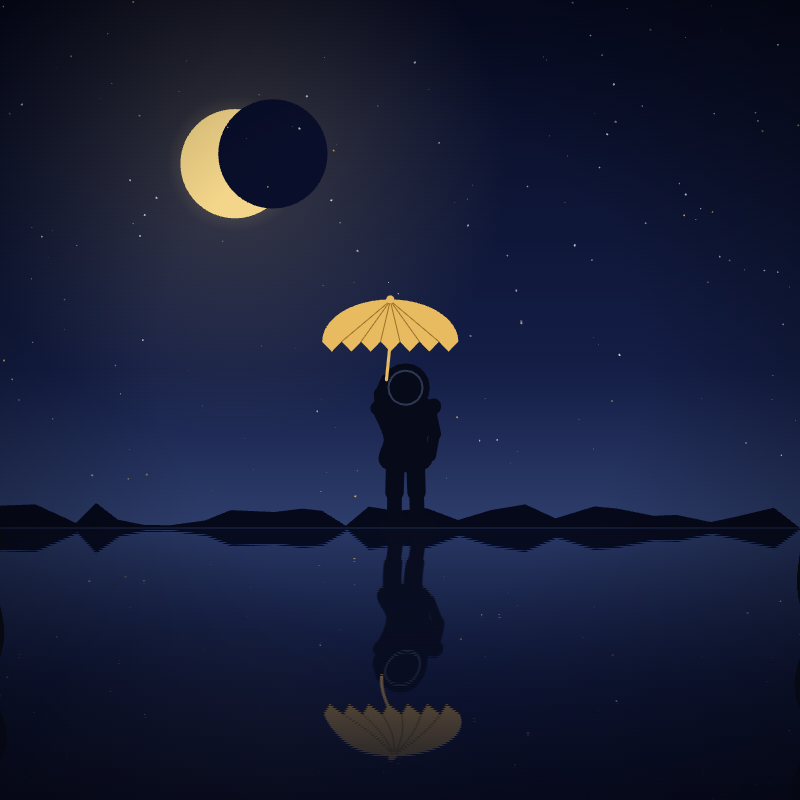
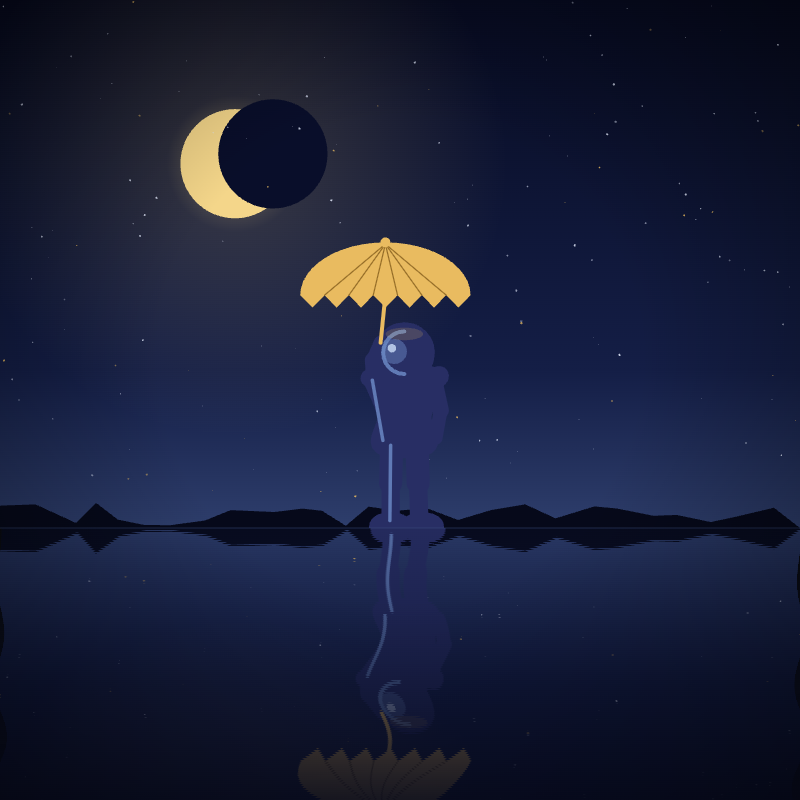
feat: render Sob a Lua figure in luminous blue-black skin
Render the figure in glowing indigo skin with a moonlight rim — the
signature gesture of contemporary Afro-Brazilian night painting — making
the afro-brasilidade reading legible rather than implied. Updates the
description and refreshes the thumbnail.

Changed region(s): [[0.375, 0.2812, 0.5938, 1.0]]

diff --git a/sketches/sob-a-lua/sketch.js b/sketches/sob-a-lua/sketch.js
@@ -1,10 +1,11 @@
 /**
  * Sob a Lua
  *
- * A study in afro-brasilidade after contemporary painters of the Black night:
- * a lone figure stands with a parasol beneath a gold crescent moon, on the edge
- * of still water that holds the sky. Indigo, gold and quiet. Each load is a new
- * night.
+ * A study in afro-brasilidade after the contemporary painters of the Black
+ * night: a figure with luminous blue-black skin stands with a parasol beneath a
+ * gold crescent moon, on the edge of still water that holds the sky. The deep
+ * indigo-and-gold rendering of Black skin is the genre's signature gesture.
+ * Each load is a new night.
  *
  * Controls:
  * - Press S to save a PNG
@@ -15,7 +16,8 @@ const WIDTH = 800;
 const HEIGHT = 800;
 const HORIZON = Math.round(HEIGHT * 0.66);
 
-const FIG = [7, 10, 24];        // near-black indigo silhouette
+const FIG = [40, 46, 100];      // luminous blue-black skin
+const FIG_HI = [108, 138, 198]; // moonlight rim / highlight on skin
 const GOLD = [233, 187, 96];
 const MOON = [244, 214, 138];
 
@@ -36,7 +38,7 @@ function limb(g, pts, ws) {
   }
 }
 
-function figure(g, cx, feetY, H, parasolTilt) {
+function figure(g, cx, feetY, H, parasolTilt, moonX) {
   const Y = (h) => feetY - h * H;     // height in heads above the feet
   const X = (x) => cx + x * H;
   g.noStroke(); g.fill(FIG[0], FIG[1], FIG[2]); g.rectMode(CENTER);
@@ -92,9 +94,19 @@ function figure(g, cx, feetY, H, parasolTilt) {
   for (let i = 1; i < n; i++) { const x = topX - R + (2 * R) * (i / n); g.line(topX, cyc - R * 0.6, x, cyc); }
   g.noStroke(); g.fill(GOLD[0], GOLD[1], GOLD[2]); g.circle(topX, cyc - R * 0.62, H * 0.4);
 
-  // subtle moon-side rim light on the head
-  g.noFill(); g.stroke(120, 140, 190, 90); g.strokeWeight(2);
-  g.circle(cx, Y(7.0), 1.7 * H);
+  // ---- moonlight on the blue skin (rim light on the moon side) ----
+  const ms = (moonX > cx) ? 1 : -1;
+  g.noFill(); g.stroke(FIG_HI[0], FIG_HI[1], FIG_HI[2], 210); g.strokeCap(ROUND);
+  g.strokeWeight(H * 0.16);
+  g.arc(cx, Y(7.0), 1.7 * H, 1.7 * H, ms > 0 ? -Math.PI / 2 : Math.PI / 2, ms > 0 ? Math.PI / 2 : 3 * Math.PI / 2); // head
+  g.strokeWeight(H * 0.14);
+  g.line(X(ms * 1.28), Y(5.9), X(ms * 0.86), Y(3.5));   // torso side
+  g.line(X(ms * 0.55), Y(3.3), X(ms * 0.58), Y(0.3));   // near leg
+  // soft cheek highlight + specular
+  g.noStroke(); g.fill(FIG_HI[0], FIG_HI[1], FIG_HI[2], 120); g.circle(cx + ms * 0.4 * H, Y(7.05), 1.0 * H);
+  g.fill(200, 218, 245, 210); g.circle(cx + ms * 0.5 * H, Y(7.18), 0.34 * H);
+  // faint warm bounce from the gold parasol on the crown
+  g.fill(GOLD[0], GOLD[1], GOLD[2], 45); g.ellipse(cx, Y(7.75), 1.5 * H, 0.5 * H);
 }
 
 // ---- scene -----------------------------------------------------------------
@@ -127,8 +139,8 @@ function drawAbove(g) {
   let x = 0; while (x <= WIDTH) { g.vertex(x, HORIZON - rr(2, 26)); x += rr(18, 46); }
   g.vertex(WIDTH, HORIZON); g.endShape(CLOSE);
 
-  // the figure at the water's edge
-  figure(g, rr(0.4, 0.6) * WIDTH, HORIZON, rr(20, 23), rr(-0.4, 0.4));
+  // the figure at the water's edge (lit from the moon side)
+  figure(g, rr(0.42, 0.58) * WIDTH, HORIZON, rr(25, 28), rr(-0.4, 0.4), mx);
 }
 
 function draw() {
